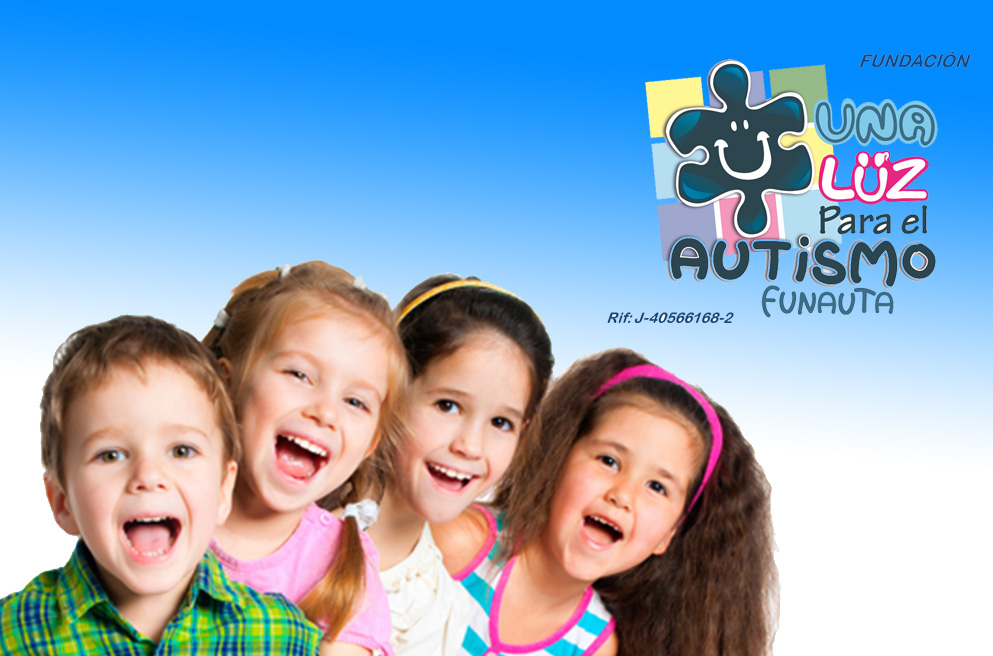
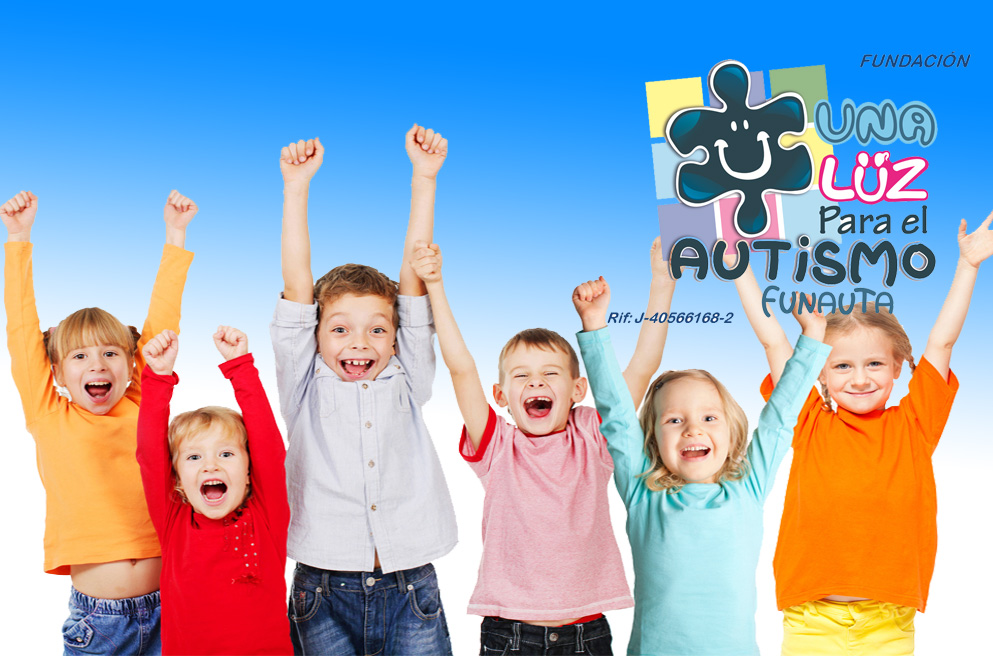
Added: replaced new image for login, fixed search for parameter representante in pagos periodo report

diff --git a/models/MensualidadSearch.php b/models/MensualidadSearch.php
@@ -62,7 +62,7 @@ class MensualidadSearch extends Mensualidad
         $query->andFilterWhere([
             'id' => $this->id,
             'fecha' => $this->fecha,
-            'monto' => $this->monto,
+            'monto' => $this->monto
         ]);
 
         $query->andFilterWhere(['like', 'id_pago', $this->id_pago])
@@ -73,8 +73,7 @@ class MensualidadSearch extends Mensualidad
             $query->where(['between','fecha',$start_date,$end_date])->all();
         }
 
-         $query->andFilterWhere(['like', 'representante.nombre', $this->rte_cedula]);
-         //$query->andFilterWhere(['like', 'representante.apellido', $this->rte_cedula]);
+         $query->andFilterWhere(['like', 'rte_cedula', $this->rte_cedula]);
 
         return $dataProvider;
     }
@@ -91,7 +90,7 @@ class MensualidadSearch extends Mensualidad
             ]
         ]);
         $totalCount = $provider->getTotalCount();
-        echo $totalCount;
+
         $dataProvider = new ActiveDataProvider([
             'query' => $query,
             'pagination' => [
@@ -105,14 +104,13 @@ class MensualidadSearch extends Mensualidad
         $query->andFilterWhere([
             'id' => $this->id,
             'fecha' => $this->fecha,
-            'monto' => $monto,
+            'monto' => $monto
         ]);
 
         $query->andFilterWhere(['like', 'id_pago', $id_pago])
             ->andFilterWhere(['like', 'banco', $banco]);
 
-        $query->andFilterWhere(['like', 'representante.nombre', $rte_cedula]);
-        $query->andFilterWhere(['like', 'representante.apellido', $rte_cedula]);
+        $query->andFilterWhere(['like', 'rte_cedula', $rte_cedula]);
 
         if(!empty($rango_fecha) && strpos($rango_fecha, '-') !== false)
         { 
@@ -123,5 +121,6 @@ class MensualidadSearch extends Mensualidad
        
        $array = $dataProvider->getModels();
         return $array;
+        
     }
 }

diff --git a/views/reporte/pagosperiodo.php b/views/reporte/pagosperiodo.php
@@ -61,6 +61,11 @@ $this->params['breadcrumbs'][] = $this->title;
             },
             'label'=>'Representante',
         ],
+        [
+                'attribute' =>'rte_cedula',
+                'label'     =>'Cedula',
+                'filter'    => ''
+        ],
         'monto',
     ],
 ]); ?>
